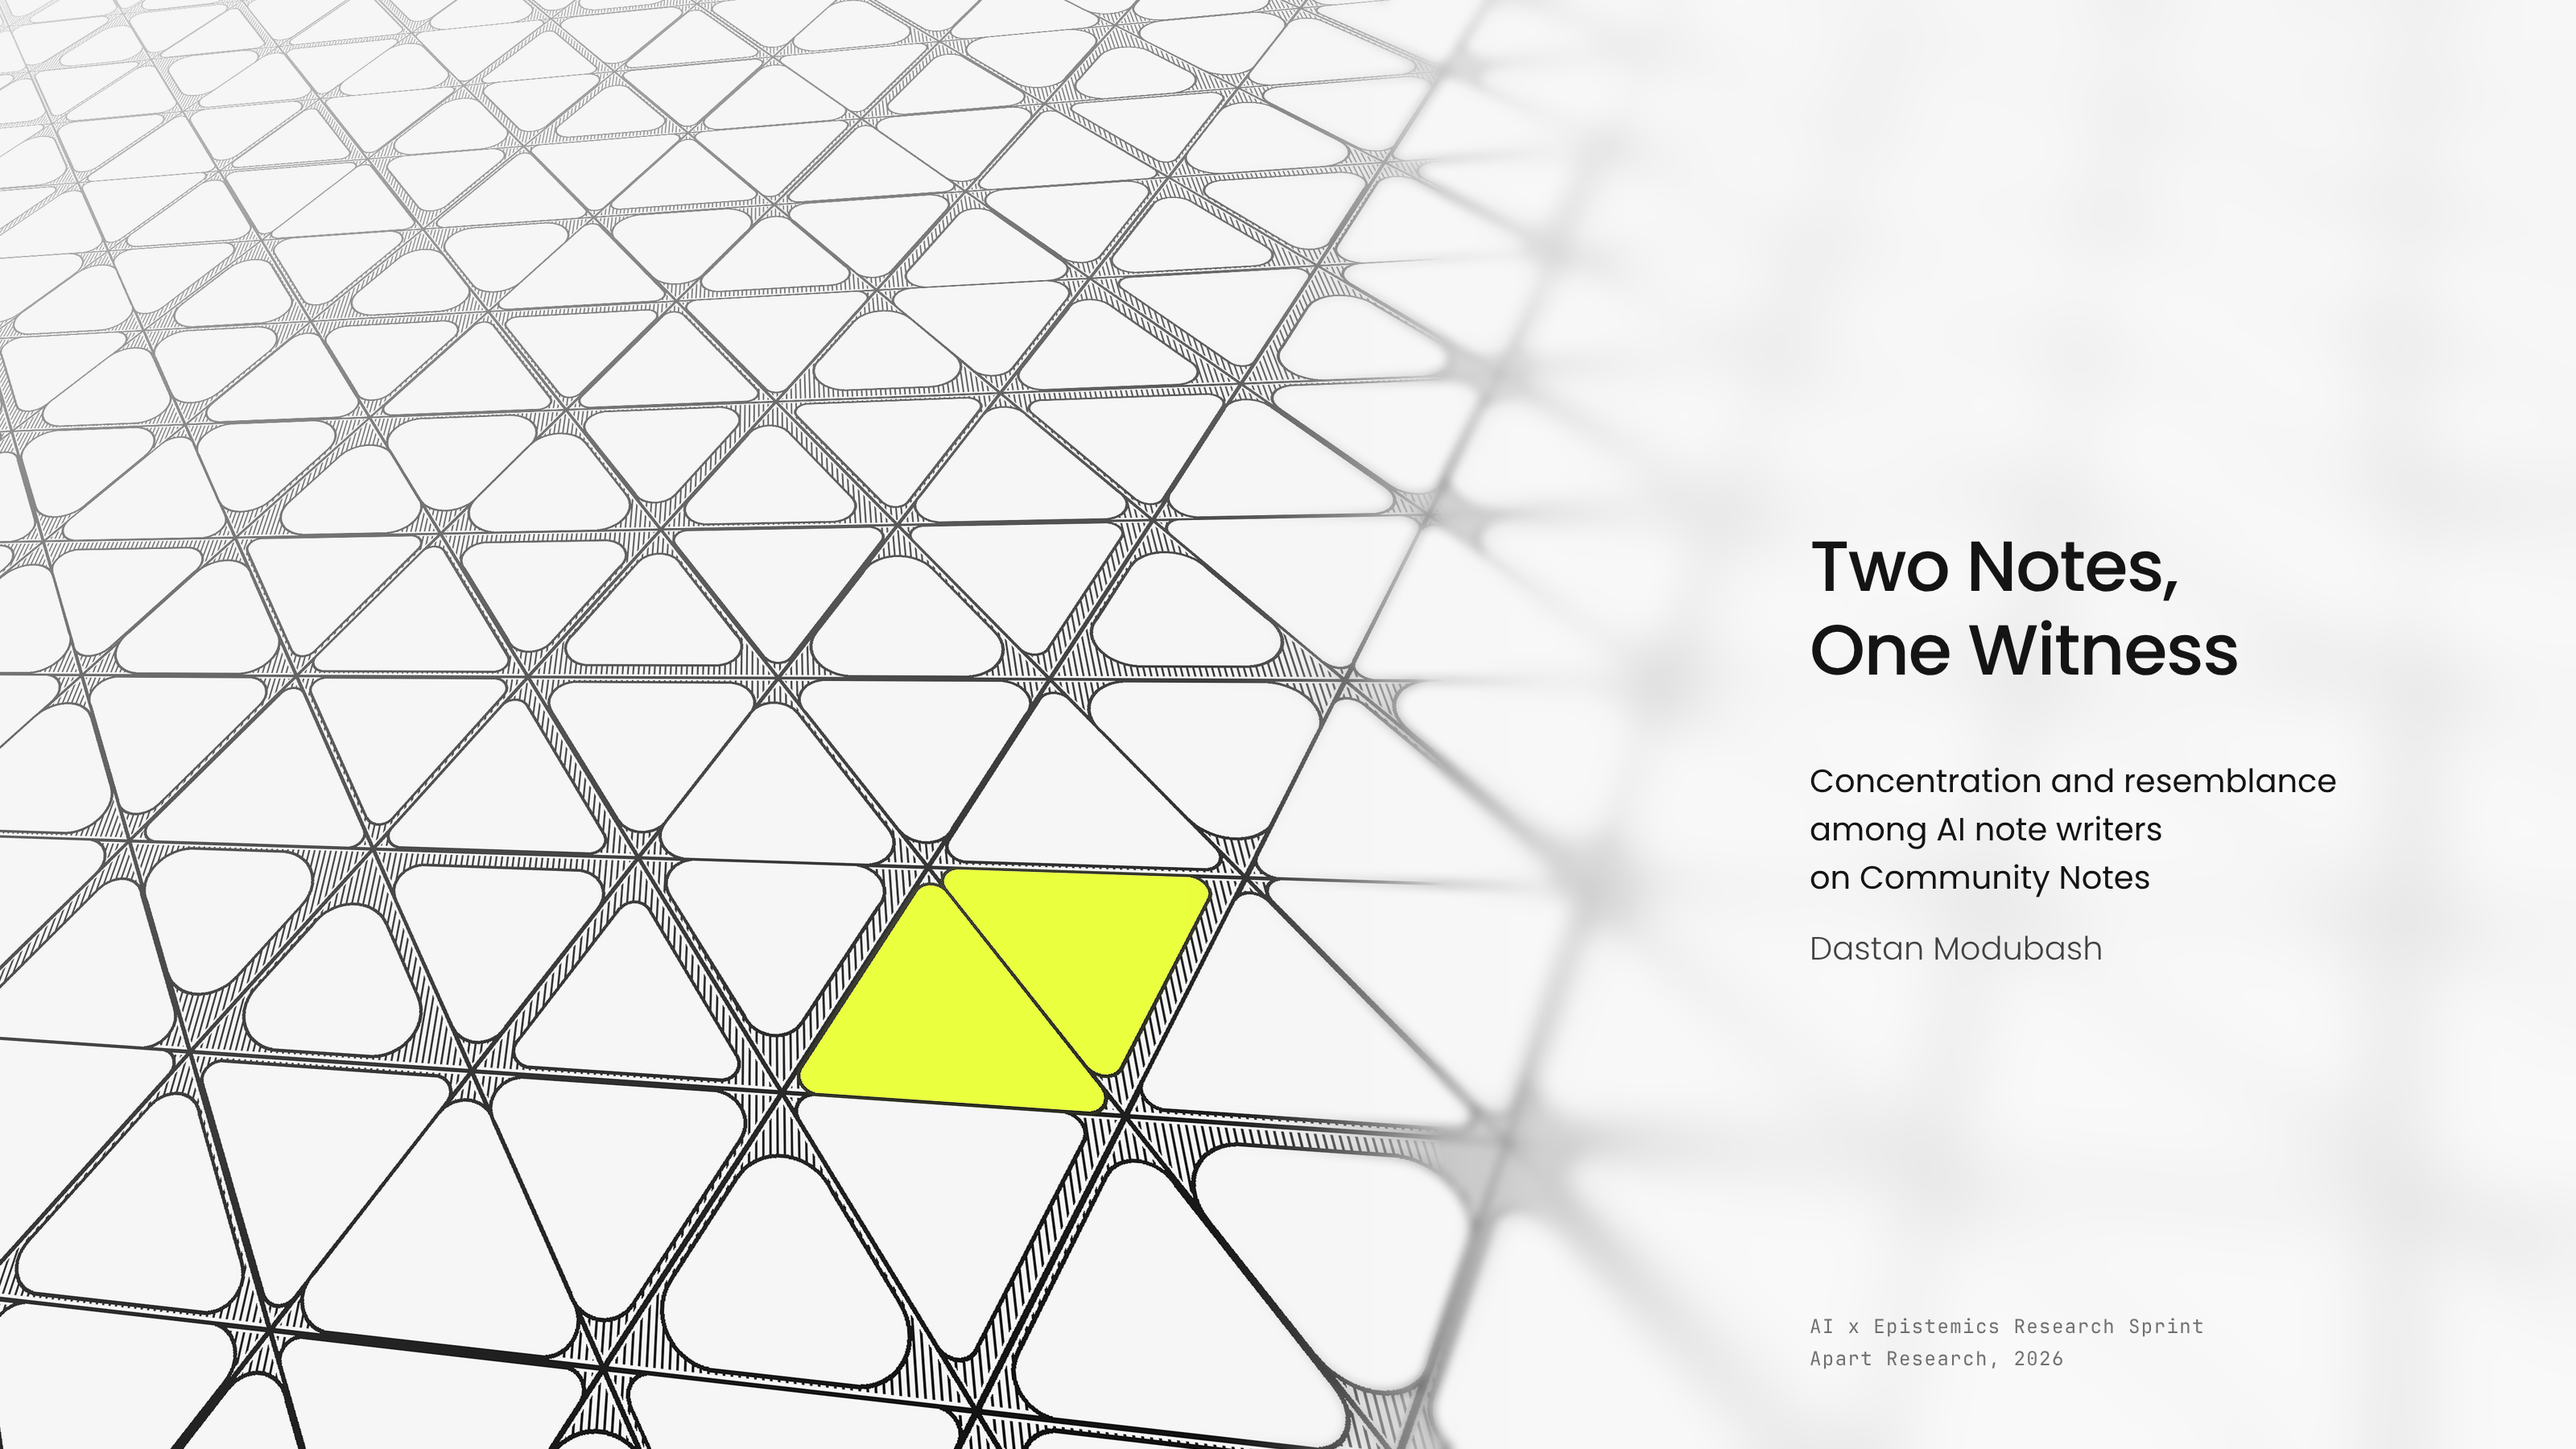
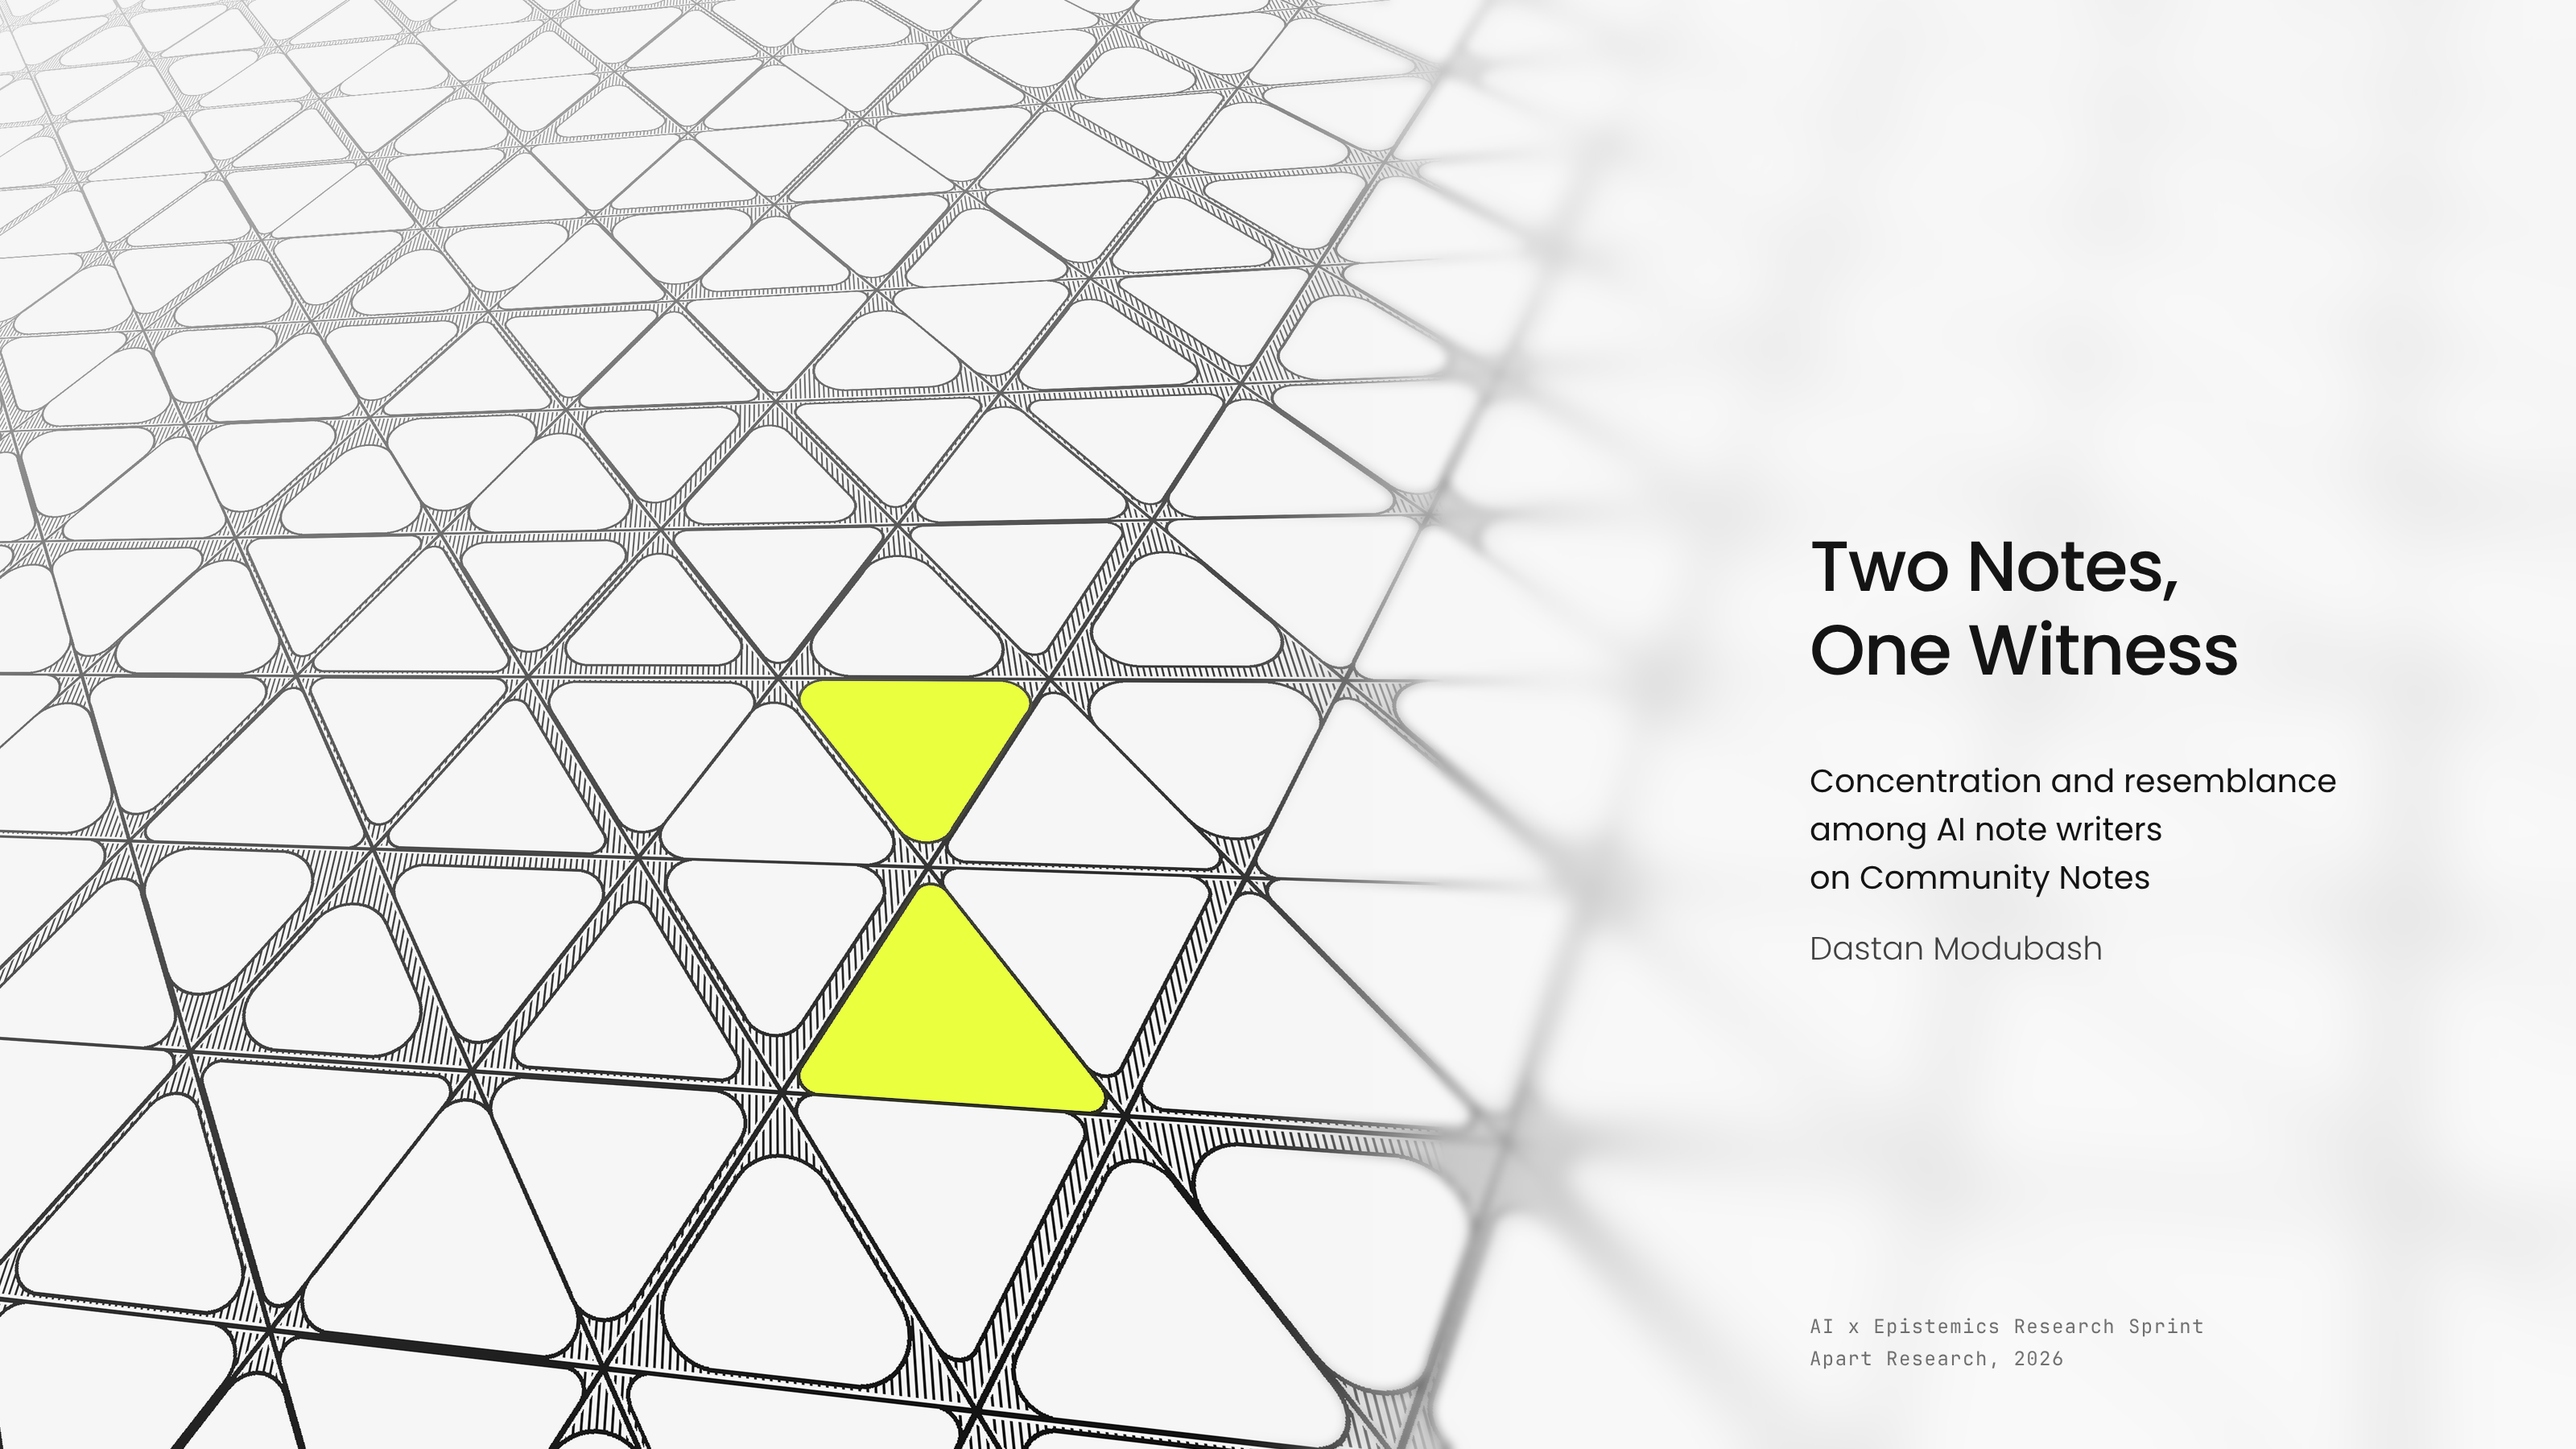
Cover: neon tiles meet tip to tip; add pencil variant
The neon pair is now the up tile and the tile above its apex. A pencil
version (graphite grain, hand wobble, broken hatch strokes, highlighter
neon) is rendered by `python3 cover_pattern.py pencil`.

Claude-Session: https://claude.ai/code/session_016TfQQw9fzurNqi1rBMR1dU

Changed region(s): [[0.3125, 0.4667, 0.4688, 0.7467]]

diff --git a/report/assets/cover_pencil.html b/report/assets/cover_pencil.html
@@ -1,0 +1,17 @@
+<!doctype html><html><head><meta charset="utf-8"><style>
+@font-face{font-family:"Poppins";src:url(fonts/Poppins-Medium.ttf);font-weight:500}
+@font-face{font-family:"Poppins";src:url(fonts/Poppins-Regular.ttf);font-weight:400}
+@font-face{font-family:"Poppins";src:url(fonts/Poppins-Light.ttf);font-weight:300}
+@font-face{font-family:"JetBrains Mono";src:url(fonts/JetBrainsMono-Regular.ttf);font-weight:400}
+*{margin:0}html,body{width:1600px;height:900px;overflow:hidden}
+body{background:#f1eee7 url(cover_pencil_bg.png) 0 0/1600px 900px;color:#141414;font-family:"Poppins",sans-serif}
+.t{position:absolute;left:1124px;width:440px}
+h1{font-size:44px;line-height:52px;font-weight:500;letter-spacing:-.02em}
+p{font-size:20px;line-height:30px;font-weight:300;color:#141414cc}
+p b{font-weight:400;color:#141414;display:block;margin-bottom:14px}
+small{position:absolute;left:1124px;bottom:46px;font-family:"JetBrains Mono",monospace;font-size:12px;line-height:20px;letter-spacing:.06em;color:#14141499}
+</style></head><body>
+<div class="t" style="bottom:470px"><h1>Two Notes,<br>One Witness</h1></div>
+<div class="t" style="top:470px"><p><b>Concentration and resemblance<br>among AI note writers<br>on Community Notes</b>Dastan Modubash</p></div>
+<small>AI x Epistemics Research Sprint<br>Apart Research, 2026</small>
+</body></html>

diff --git a/report/assets/cover_pattern.py b/report/assets/cover_pattern.py
@@ -2,14 +2,24 @@
 """Cover background: rounded triangular tiles on a triangular grid, hatched channels between them,
 seen in perspective (after the reference photo). Two tiles that share an edge are neon.
 The text column is frosted (blurred and lightened). Deterministic."""
-import numpy as np
+import numpy as np, sys
+STYLE = sys.argv[1] if len(sys.argv) > 1 else "ink"   # "ink" or "pencil"
 from PIL import Image, ImageDraw, ImageFilter
 TW = 7200                                   # flat texture size (px)
 a = 420.0; h = a * np.sqrt(3) / 2           # triangle side and height
 inset, rc, sw = 24.0, 50.0, 5.0             # gap from the grid line, corner radius, outline width
 PAPER, INK, NEON = 246, 18, (0xEA, 0xFF, 0x3D)
 tex = Image.new("L", (TW, TW), PAPER); d = ImageDraw.Draw(tex)
-for x in range(0, TW, 9): d.line([(x, 0), (x, TW)], fill=INK, width=3)          # one hatch direction, like an engraving
+_hr = np.random.default_rng(5)
+for x in range(0, TW, 9):                                                    # one hatch direction, like an engraving
+    if STYLE == "ink":
+        d.line([(x, 0), (x, TW)], fill=INK, width=3)
+    else:                                                                     # pencil: each stroke its own pressure, with breaks and a slight lean
+        y = 0
+        while y < TW:
+            L = _hr.uniform(120, 900); v = int(_hr.uniform(INK, 110)); lean = _hr.normal(0, 4)
+            d.line([(x + _hr.normal(0, 0.8), y), (x + lean, y + L)], fill=v, width=int(_hr.choice([2, 3, 3])))
+            y += L + _hr.uniform(0, 60)
 tiles = []
 for j in range(-1, int(TW / h) + 2):
     for i in range(-2, int(TW / a) + 3):
@@ -67,13 +77,27 @@ def to_tex(x, y):
     return ((coef[0] * x + coef[1] * y + coef[2]) / den, (coef[3] * x + coef[4] * y + coef[5]) / den)
 TX, TY = to_tex(560 * Z, 590 * Z)                                     # target on the cover: left third, lower third
 best = min(((np.hypot(*(np.mean(tri, axis=0) - [TX, TY])), (i, j, o)) for i, j, o, tri in tiles if o == 0))[1]
-NEON_TILES = {(best[0], best[1], 0), (best[0], best[1], 1)}           # an up and a down triangle that share an edge
+apex = next(tri for i, j, o, tri in tiles if (i, j, o) == best)[2]            # the up tile's top vertex
+above = min(((np.hypot(*(np.array(tri[2]) - apex)), (i, j, o)) for i, j, o, tri in tiles if o == 1))[1]
+NEON_TILES = {best, above}                                                    # two tiles that meet at one point
 neon_mask = Image.new("L", (TW, TW), 0); dn_ = ImageDraw.Draw(neon_mask)
 for i, j, o, tri in tiles:
     if all(-a < p[0] < TW + a and -a < p[1] < TW + a for p in tri):
         ins = rng.choice(INSETS, 3, p=PROB); rcv = rng.choice(RADII, p=RPROB)
         draw_tile(d, tri, PAPER, ins, rcv)
         if (i, j, o) in NEON_TILES: draw_tile(dn_, tri, 255, ins, rcv)
+if STYLE == "pencil":                                                          # a hand's wobble: smooth displacement of the flat drawing
+    import cv2
+    wr = np.random.default_rng(9)
+    def field(cells, amp):
+        f = wr.normal(0, 1, (cells, cells)).astype(np.float32)
+        return cv2.resize(f, (TW, TW), interpolation=cv2.INTER_CUBIC) * amp
+    dx = field(48, 5.0) + field(360, 1.2); dy = field(48, 5.0) + field(360, 1.2)
+    gx, gy = np.meshgrid(np.arange(TW, dtype=np.float32), np.arange(TW, dtype=np.float32))
+    tex = Image.fromarray(cv2.remap(np.asarray(tex), gx + dx, gy + dy, cv2.INTER_LINEAR, borderValue=PAPER))
+    dxn = field(30, 9.0); dyn = field(30, 9.0)                                # the highlighter is looser than the pencil
+    neon_mask = Image.fromarray(cv2.remap(np.asarray(neon_mask), gx + dxn, gy + dyn, cv2.INTER_LINEAR, borderValue=0))
+    del gx, gy, dx, dy, dxn, dyn
 out = tex.transform((W * Z, H * Z), Image.PERSPECTIVE, tuple(coef), Image.BICUBIC).resize((W * 2, H * 2), Image.LANCZOS)
 nm = neon_mask.transform((W * Z, H * Z), Image.PERSPECTIVE, tuple(coef), Image.BICUBIC).resize((W * 2, H * 2), Image.LANCZOS)
 g = np.asarray(out).astype(np.float32)
@@ -81,12 +105,27 @@ g = np.asarray(out).astype(np.float32)
 yy, xx = np.mgrid[0:H * 2, 0:W * 2].astype(np.float32)
 far = np.clip(1 - (xx / (W * 2) * 0.55 + yy / (H * 2) * 0.75), 0, 1) ** 1.6
 g = g + (PAPER - g) * (0.85 * far)
-rgb = np.repeat(g[..., None], 3, axis=2)
 m = (np.asarray(nm).astype(np.float32) / 255)[..., None]
-rgb = rgb * (1 - m) + np.array(NEON, float) * m
-Image.fromarray(np.clip(rgb, 0, 255).astype(np.uint8)).save("pattern.png")
+if STYLE == "ink":
+    rgb = np.repeat(g[..., None], 3, axis=2)
+    rgb = rgb * (1 - m) + np.array(NEON, float) * m
+else:                                                                         # graphite on paper, highlighter on top
+    pr = np.random.default_rng(21); Hh, Ww = g.shape
+    dark = np.clip((PAPER - g) / (PAPER - INK), 0, 1)
+    grain = Image.fromarray(np.clip(pr.normal(128, 60, (Hh, Ww)), 0, 255).astype(np.uint8)).filter(ImageFilter.GaussianBlur(0.7))
+    grain = np.asarray(grain).astype(np.float32) / 255
+    dark = np.clip(dark * 1.25, 0, 1) * (0.62 + 0.38 * np.clip(grain * 1.4 - 0.2, 0, 1)) * 0.9   # graphite never reaches black, and breaks a little on the paper tooth
+    mott = np.asarray(Image.fromarray(np.clip(pr.normal(128, 40, (Hh // 40, Ww // 40)), 0, 255).astype(np.uint8)).resize((Ww, Hh), Image.BICUBIC)).astype(np.float32) / 255
+    paper = np.array([241, 238, 231], float)[None, None, :] * (0.985 + 0.03 * mott[..., None]) + pr.normal(0, 1.6, (Hh, Ww, 1))
+    graphite = np.array([62, 62, 66], float)
+    rgb = paper * (1 - dark[..., None]) + graphite * dark[..., None]
+    streak = np.asarray(Image.fromarray(np.clip(pr.normal(128, 50, (Hh, Ww // 6)), 0, 255).astype(np.uint8)).resize((Ww, Hh), Image.BICUBIC)).astype(np.float32) / 255
+    hm = m * (0.78 + 0.22 * streak[..., None])                              # marker strokes leave uneven ink
+    rgb = rgb * (1 - hm) + rgb * (np.array(NEON, float) / 255) * hm * 1.02 + np.array(NEON, float) * hm * 0.0
+    rgb = np.where(hm > 0, rgb * (1 - 0.35 * hm) + np.array(NEON, float) * 0.35 * hm, rgb)
+Image.fromarray(np.clip(rgb, 0, 255).astype(np.uint8)).save(f"pattern_{STYLE}.png")
 # frosted text column: blur and lightening both grow smoothly from left to right
-base = Image.open("pattern.png"); B0 = np.asarray(base).astype(np.float32)
+base = Image.open(f"pattern_{STYLE}.png"); B0 = np.asarray(base).astype(np.float32)
 levels = [B0] + [np.asarray(base.filter(ImageFilter.GaussianBlur(rad))).astype(np.float32) for rad in (6, 14, 26, 40)]
 u = np.clip((xx / (W * 2) - 0.46) / (0.74 - 0.46), 0, 1); u = u ** 3 * (u * (u * 6 - 15) + 10)   # smootherstep
 pos = u * (len(levels) - 1); k0 = np.floor(pos).astype(int); fr = (pos - k0)[..., None]
@@ -94,5 +133,6 @@ k1 = np.minimum(k0 + 1, len(levels) - 1)
 stack = np.stack(levels)                                          # (L, H, W, 3)
 hh, ww = np.indices(k0.shape)
 blurred = stack[k0, hh, ww] * (1 - fr) + stack[k1, hh, ww] * fr
-final = blurred + (250 - blurred) * (0.82 * u ** 0.55)[..., None]   # lightening runs ahead of the blur, so the middle of the fade stays light
-Image.fromarray(np.clip(final, 0, 255).astype(np.uint8)).save("cover_bg.png")
+FROST = 250 if STYLE == "ink" else np.array([243, 240, 234], float)
+final = blurred + (FROST - blurred) * (0.82 * u ** 0.55)[..., None]   # lightening runs ahead of the blur, so the middle of the fade stays light
+Image.fromarray(np.clip(final, 0, 255).astype(np.uint8)).save("cover_bg.png" if STYLE == "ink" else "cover_pencil_bg.png")
